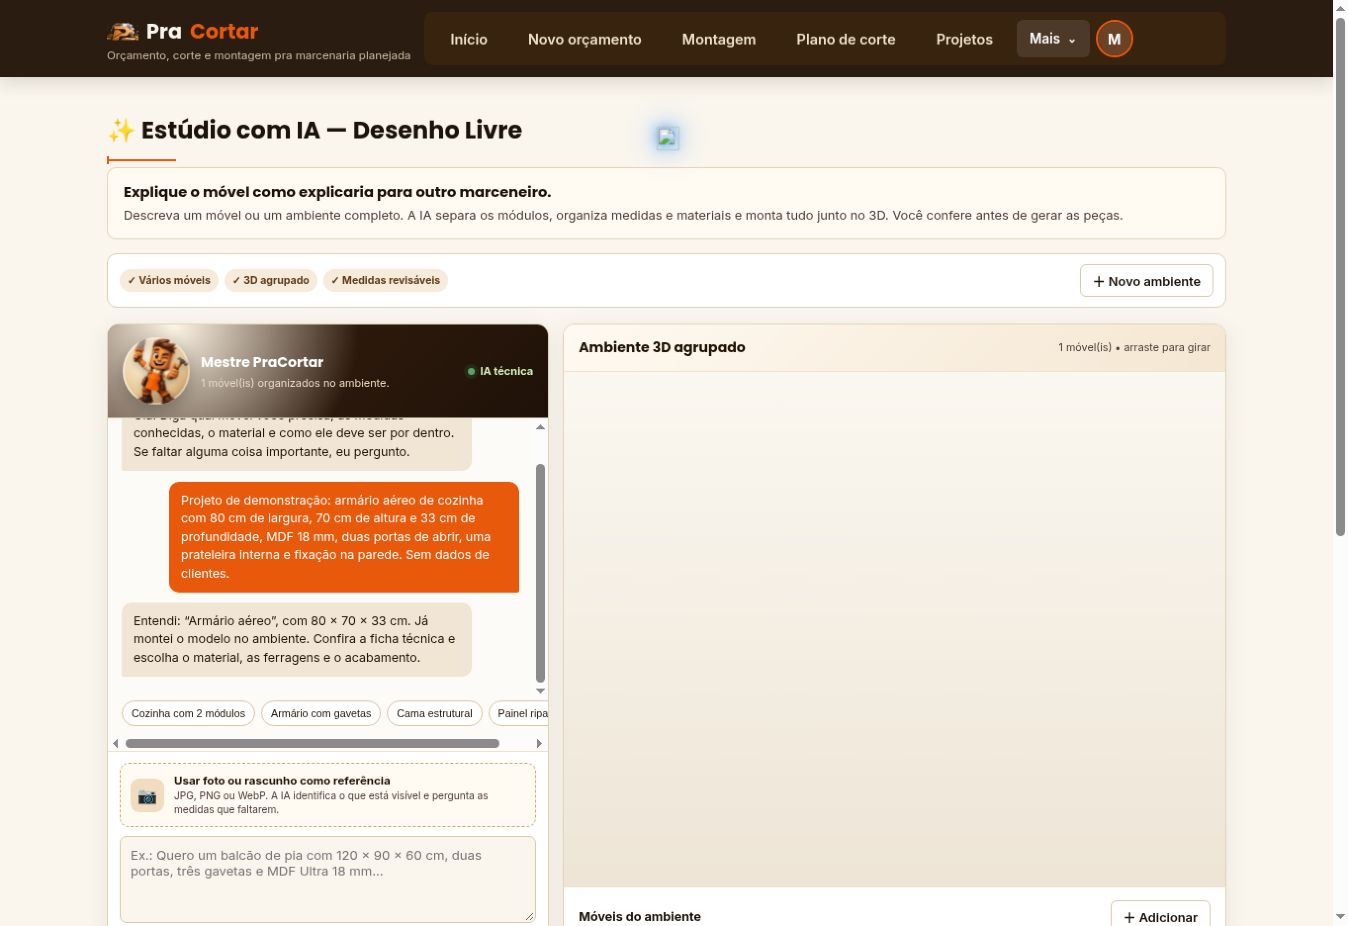
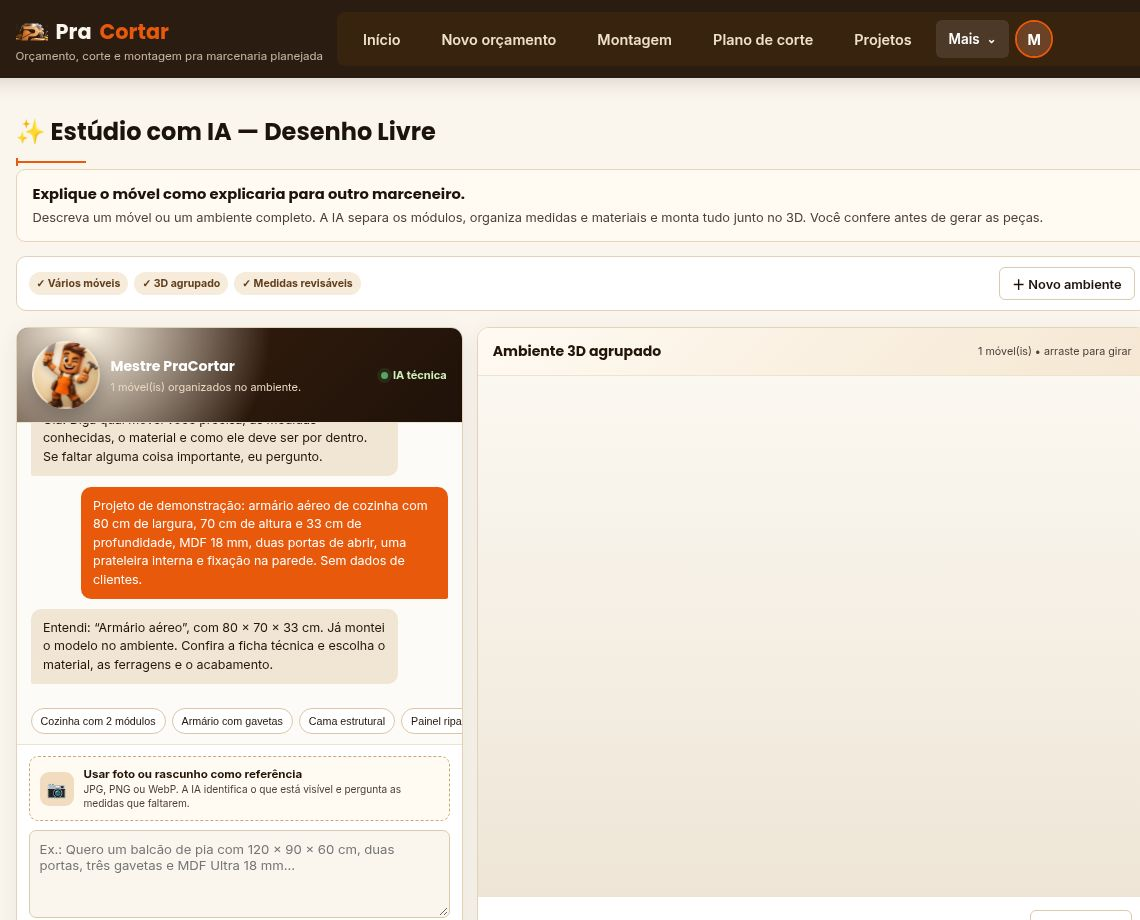
fix: substituir capturas do PraCortar sem artefato de cursor

diff --git a/index.html b/index.html
@@ -671,10 +671,10 @@ a:hover .image-zoom-label { color:var(--white); text-decoration:underline; }
   </div>
 </section>
 
-<section id="galeria-pracortar"><div class="container"><div class="section-label">PraCortar · Evidências de produto</div><h2>Aplicação em uso.</h2><p class="case-note">Capturas de um projeto simulado, sem dados de clientes. A galeria mostra orçamento, corte, detalhamento técnico 2D e a interface do assistente.</p><div class="carousel" data-carousel><div class="carousel-controls"><span class="carousel-hint">Arraste para explorar</span><div class="carousel-actions"><button class="carousel-arrow" type="button" data-dir="-1" aria-label="Anterior: imagens PraCortar" aria-controls="pracortar-track">←</button><span class="carousel-count" aria-live="polite">1 / 4</span><button class="carousel-arrow" type="button" data-dir="1" aria-label="Próximo: imagens PraCortar" aria-controls="pracortar-track">→</button></div></div><div id="pracortar-track" class="carousel-track" role="region" aria-label="Imagens PraCortar" tabindex="0"><div class="evidence-item"><div class="evidence-header"><span class="fig-num">Tela 1</span><h3>Orçamento e cálculo automático</h3></div><p class="evidence-desc">Materiais, ferragens, fita de borda e margem de lucro em um projeto simulado.</p><a href="images/pracortar-orcamento-demo.jpg" target="_blank" rel="noopener noreferrer" aria-label="Ampliar: Orçamento e cálculo automático"><img loading="lazy" class="screenshot" src="images/pracortar-orcamento-demo.jpg" alt="Orçamento e cálculo automático no PraCortar"><span class="image-zoom-label">↗ Clique para ampliar</span></a><p class="fig-caption">Captura real do aplicativo · dados de demonstração · clique para ampliar</p></div>
-<div class="evidence-item"><div class="evidence-header"><span class="fig-num">Tela 2</span><h3>Plano de corte em chapa</h3></div><p class="evidence-desc">Distribuição das peças do exemplo, com medidas, kerf e aproveitamento da chapa.</p><a href="images/pracortar-corte-demo.jpg" target="_blank" rel="noopener noreferrer" aria-label="Ampliar: Plano de corte em chapa"><img loading="lazy" class="screenshot" src="images/pracortar-corte-demo.jpg" alt="Plano de corte em chapa no PraCortar"><span class="image-zoom-label">↗ Clique para ampliar</span></a><p class="fig-caption">Captura real do aplicativo · dados de demonstração · clique para ampliar</p></div>
-<div class="evidence-item"><div class="evidence-header"><span class="fig-num">Tela 3</span><h3>Detalhamento técnico do móvel</h3></div><p class="evidence-desc">Vista técnica 2D e acompanhamento da montagem de um armário aéreo de demonstração.</p><a href="images/pracortar-montagem-demo.jpg" target="_blank" rel="noopener noreferrer" aria-label="Ampliar: Detalhamento técnico do móvel"><img loading="lazy" class="screenshot" src="images/pracortar-montagem-demo.jpg" alt="Detalhamento técnico do móvel no PraCortar"><span class="image-zoom-label">↗ Clique para ampliar</span></a><p class="fig-caption">Captura real do aplicativo · dados de demonstração · clique para ampliar</p></div>
-<div class="evidence-item"><div class="evidence-header"><span class="fig-num">Tela 4</span><h3>Estúdio e interpretação de descrição</h3></div><p class="evidence-desc">Interface do assistente reconhecendo um módulo conhecido e suas medidas no exemplo.</p><a href="images/pracortar-assistente-demo.jpg" target="_blank" rel="noopener noreferrer" aria-label="Ampliar: Estúdio e interpretação de descrição"><img loading="lazy" class="screenshot" src="images/pracortar-assistente-demo.jpg" alt="Estúdio e interpretação de descrição no PraCortar"><span class="image-zoom-label">↗ Clique para ampliar</span></a><p class="fig-caption">Captura real do aplicativo · dados de demonstração · clique para ampliar</p></div></div></div><a class="project-link" href="https://pracortar.pracortarweb.workers.dev/" target="_blank" rel="noopener noreferrer">Abrir PraCortar →</a></div></section>
+<section id="galeria-pracortar"><div class="container"><div class="section-label">PraCortar · Evidências de produto</div><h2>Aplicação em uso.</h2><p class="case-note">Capturas de um projeto simulado, sem dados de clientes. A galeria mostra orçamento, corte, detalhamento técnico 2D e a interface do assistente.</p><div class="carousel" data-carousel><div class="carousel-controls"><span class="carousel-hint">Arraste para explorar</span><div class="carousel-actions"><button class="carousel-arrow" type="button" data-dir="-1" aria-label="Anterior: imagens PraCortar" aria-controls="pracortar-track">←</button><span class="carousel-count" aria-live="polite">1 / 4</span><button class="carousel-arrow" type="button" data-dir="1" aria-label="Próximo: imagens PraCortar" aria-controls="pracortar-track">→</button></div></div><div id="pracortar-track" class="carousel-track" role="region" aria-label="Imagens PraCortar" tabindex="0"><div class="evidence-item"><div class="evidence-header"><span class="fig-num">Tela 1</span><h3>Orçamento e cálculo automático</h3></div><p class="evidence-desc">Materiais, ferragens, fita de borda e margem de lucro em um projeto simulado.</p><a href="images/pracortar-orcamento-demo.jpg?v=20261013-clean" target="_blank" rel="noopener noreferrer" aria-label="Ampliar: Orçamento e cálculo automático"><img loading="lazy" class="screenshot" src="images/pracortar-orcamento-demo.jpg?v=20261013-clean" alt="Orçamento e cálculo automático no PraCortar"><span class="image-zoom-label">↗ Clique para ampliar</span></a><p class="fig-caption">Captura real do aplicativo · dados de demonstração · clique para ampliar</p></div>
+<div class="evidence-item"><div class="evidence-header"><span class="fig-num">Tela 2</span><h3>Plano de corte em chapa</h3></div><p class="evidence-desc">Distribuição das peças do exemplo, com medidas, kerf e aproveitamento da chapa.</p><a href="images/pracortar-corte-demo.jpg?v=20261013-clean" target="_blank" rel="noopener noreferrer" aria-label="Ampliar: Plano de corte em chapa"><img loading="lazy" class="screenshot" src="images/pracortar-corte-demo.jpg?v=20261013-clean" alt="Plano de corte em chapa no PraCortar"><span class="image-zoom-label">↗ Clique para ampliar</span></a><p class="fig-caption">Captura real do aplicativo · dados de demonstração · clique para ampliar</p></div>
+<div class="evidence-item"><div class="evidence-header"><span class="fig-num">Tela 3</span><h3>Detalhamento técnico do móvel</h3></div><p class="evidence-desc">Vista técnica 2D e acompanhamento da montagem de um armário aéreo de demonstração.</p><a href="images/pracortar-montagem-demo.jpg?v=20261013-clean" target="_blank" rel="noopener noreferrer" aria-label="Ampliar: Detalhamento técnico do móvel"><img loading="lazy" class="screenshot" src="images/pracortar-montagem-demo.jpg?v=20261013-clean" alt="Detalhamento técnico do móvel no PraCortar"><span class="image-zoom-label">↗ Clique para ampliar</span></a><p class="fig-caption">Captura real do aplicativo · dados de demonstração · clique para ampliar</p></div>
+<div class="evidence-item"><div class="evidence-header"><span class="fig-num">Tela 4</span><h3>Estúdio e interpretação de descrição</h3></div><p class="evidence-desc">Interface do assistente reconhecendo um módulo conhecido e suas medidas no exemplo.</p><a href="images/pracortar-assistente-demo.jpg?v=20261013-clean" target="_blank" rel="noopener noreferrer" aria-label="Ampliar: Estúdio e interpretação de descrição"><img loading="lazy" class="screenshot" src="images/pracortar-assistente-demo.jpg?v=20261013-clean" alt="Estúdio e interpretação de descrição no PraCortar"><span class="image-zoom-label">↗ Clique para ampliar</span></a><p class="fig-caption">Captura real do aplicativo · dados de demonstração · clique para ampliar</p></div></div></div><a class="project-link" href="https://pracortar.pracortarweb.workers.dev/" target="_blank" rel="noopener noreferrer">Abrir PraCortar →</a></div></section>
 
 <section id="towerguard">
   <div class="container">
